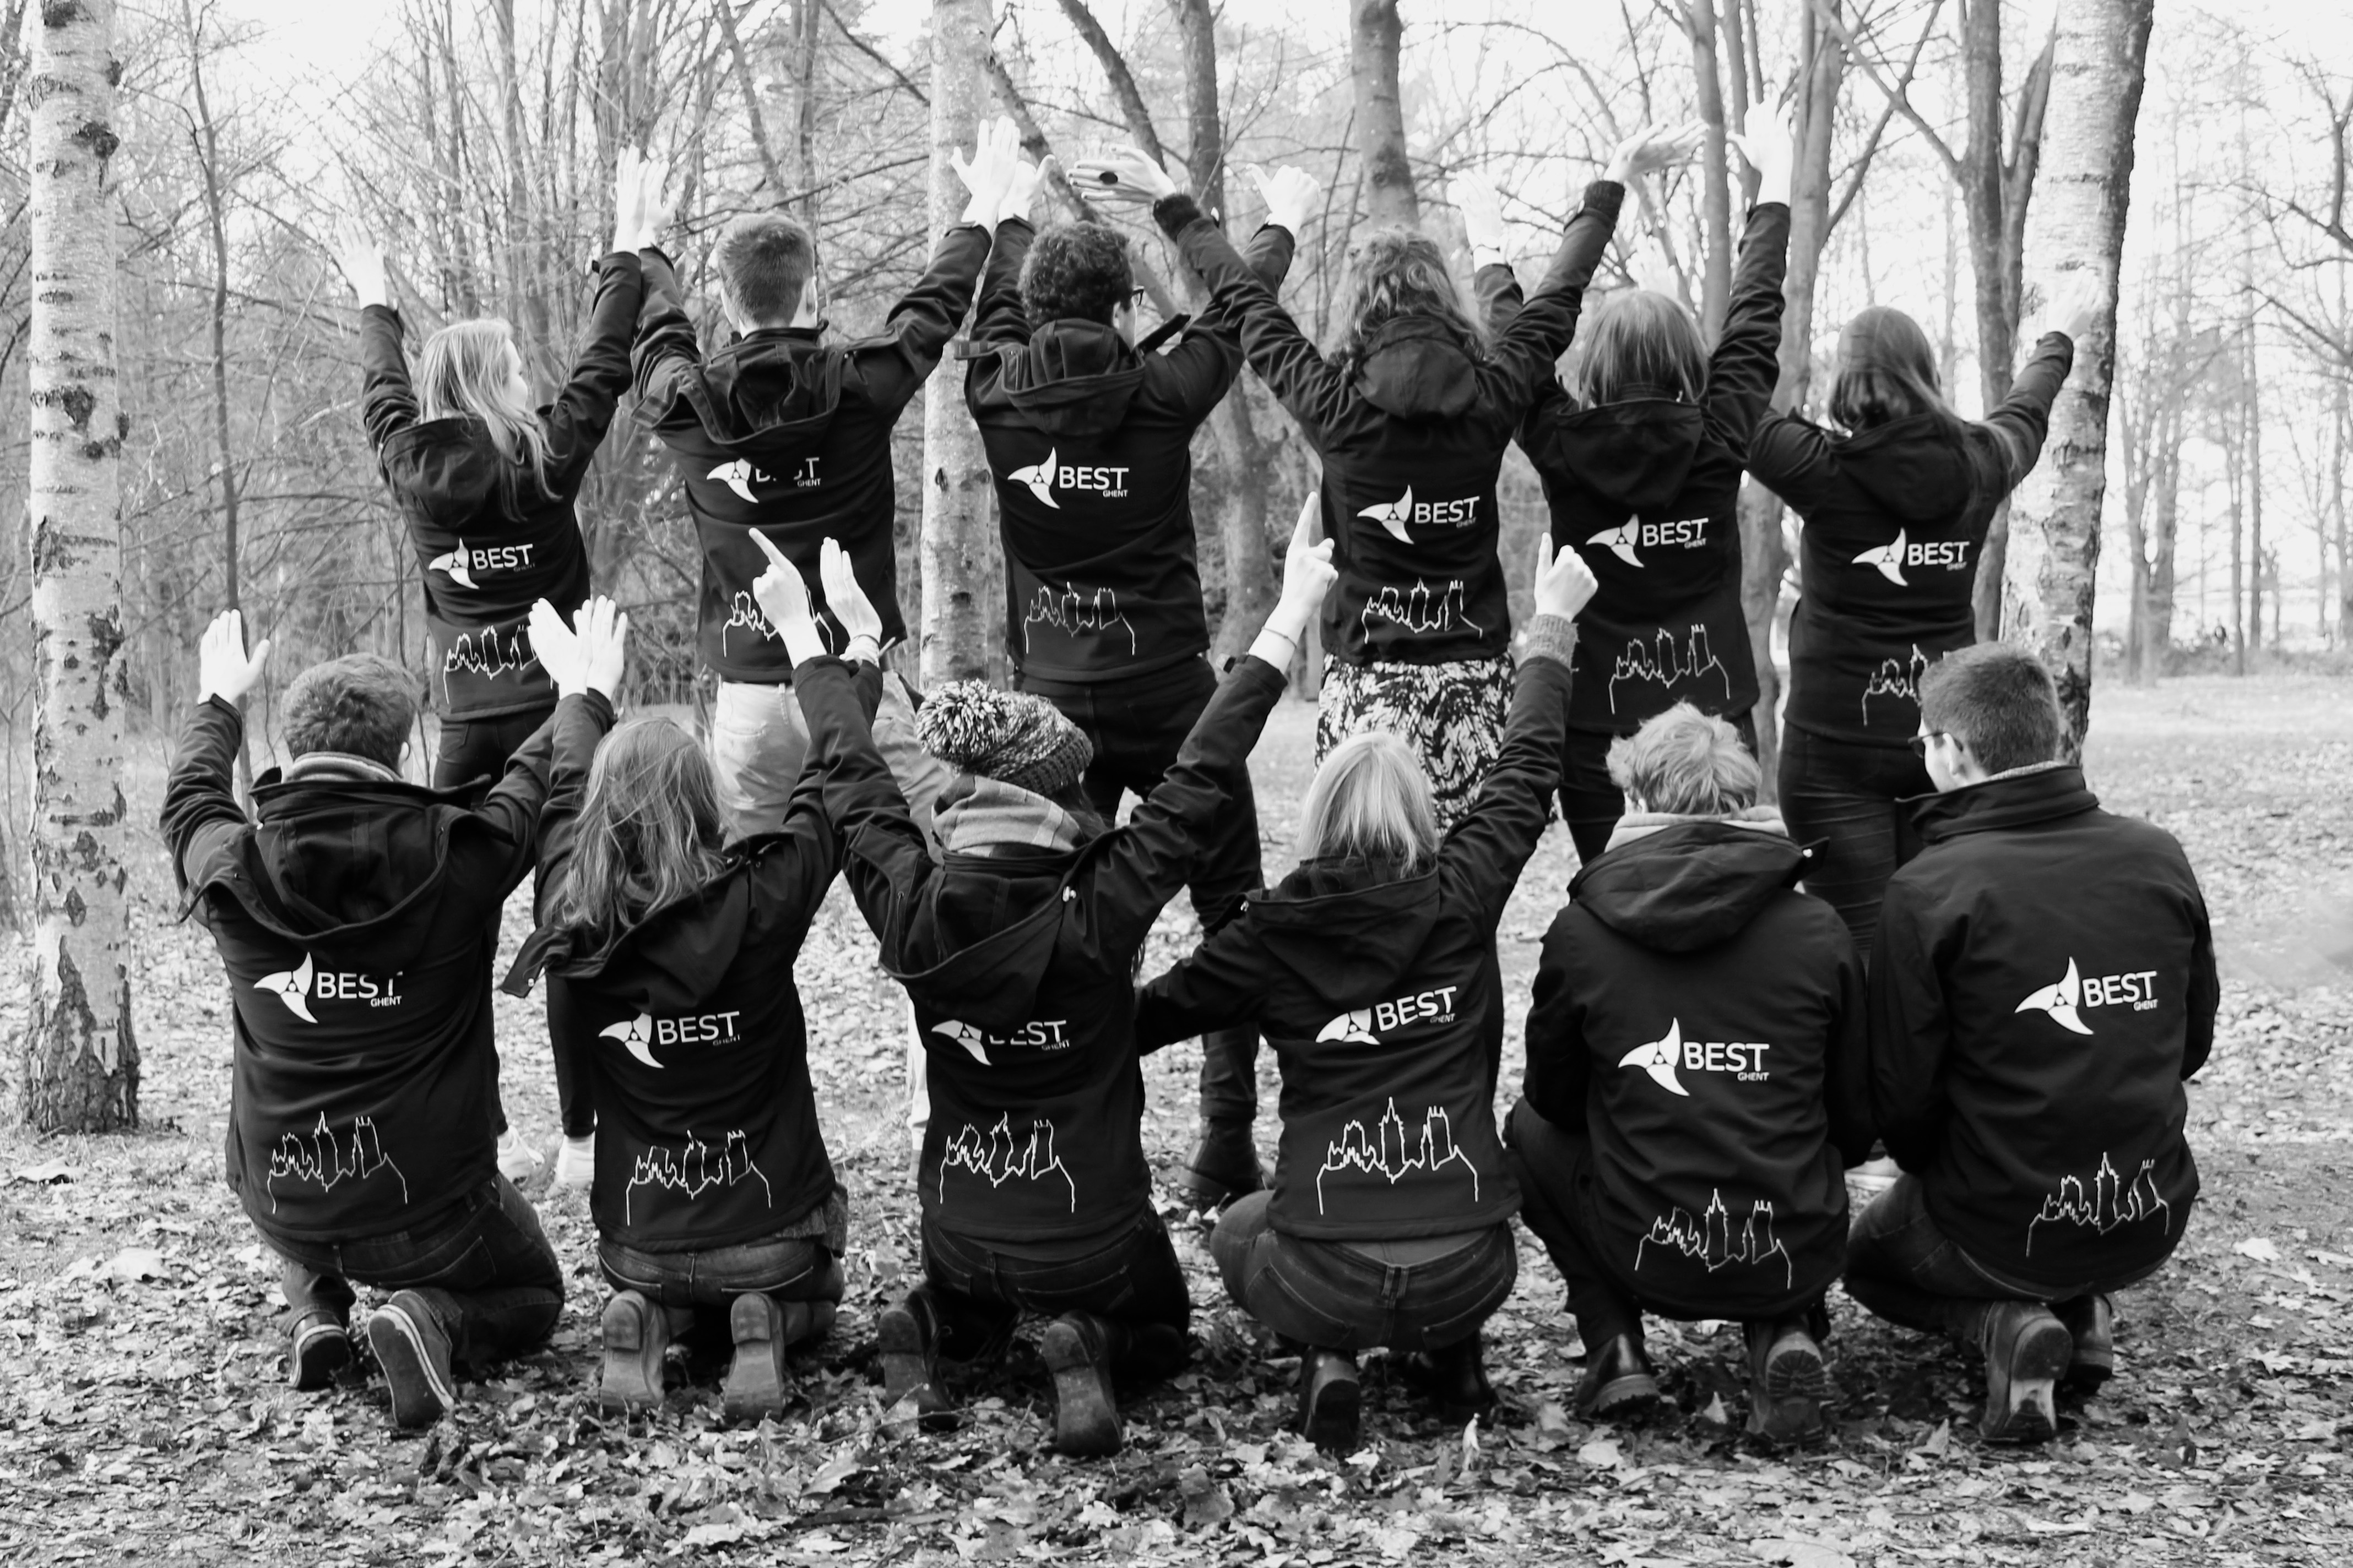
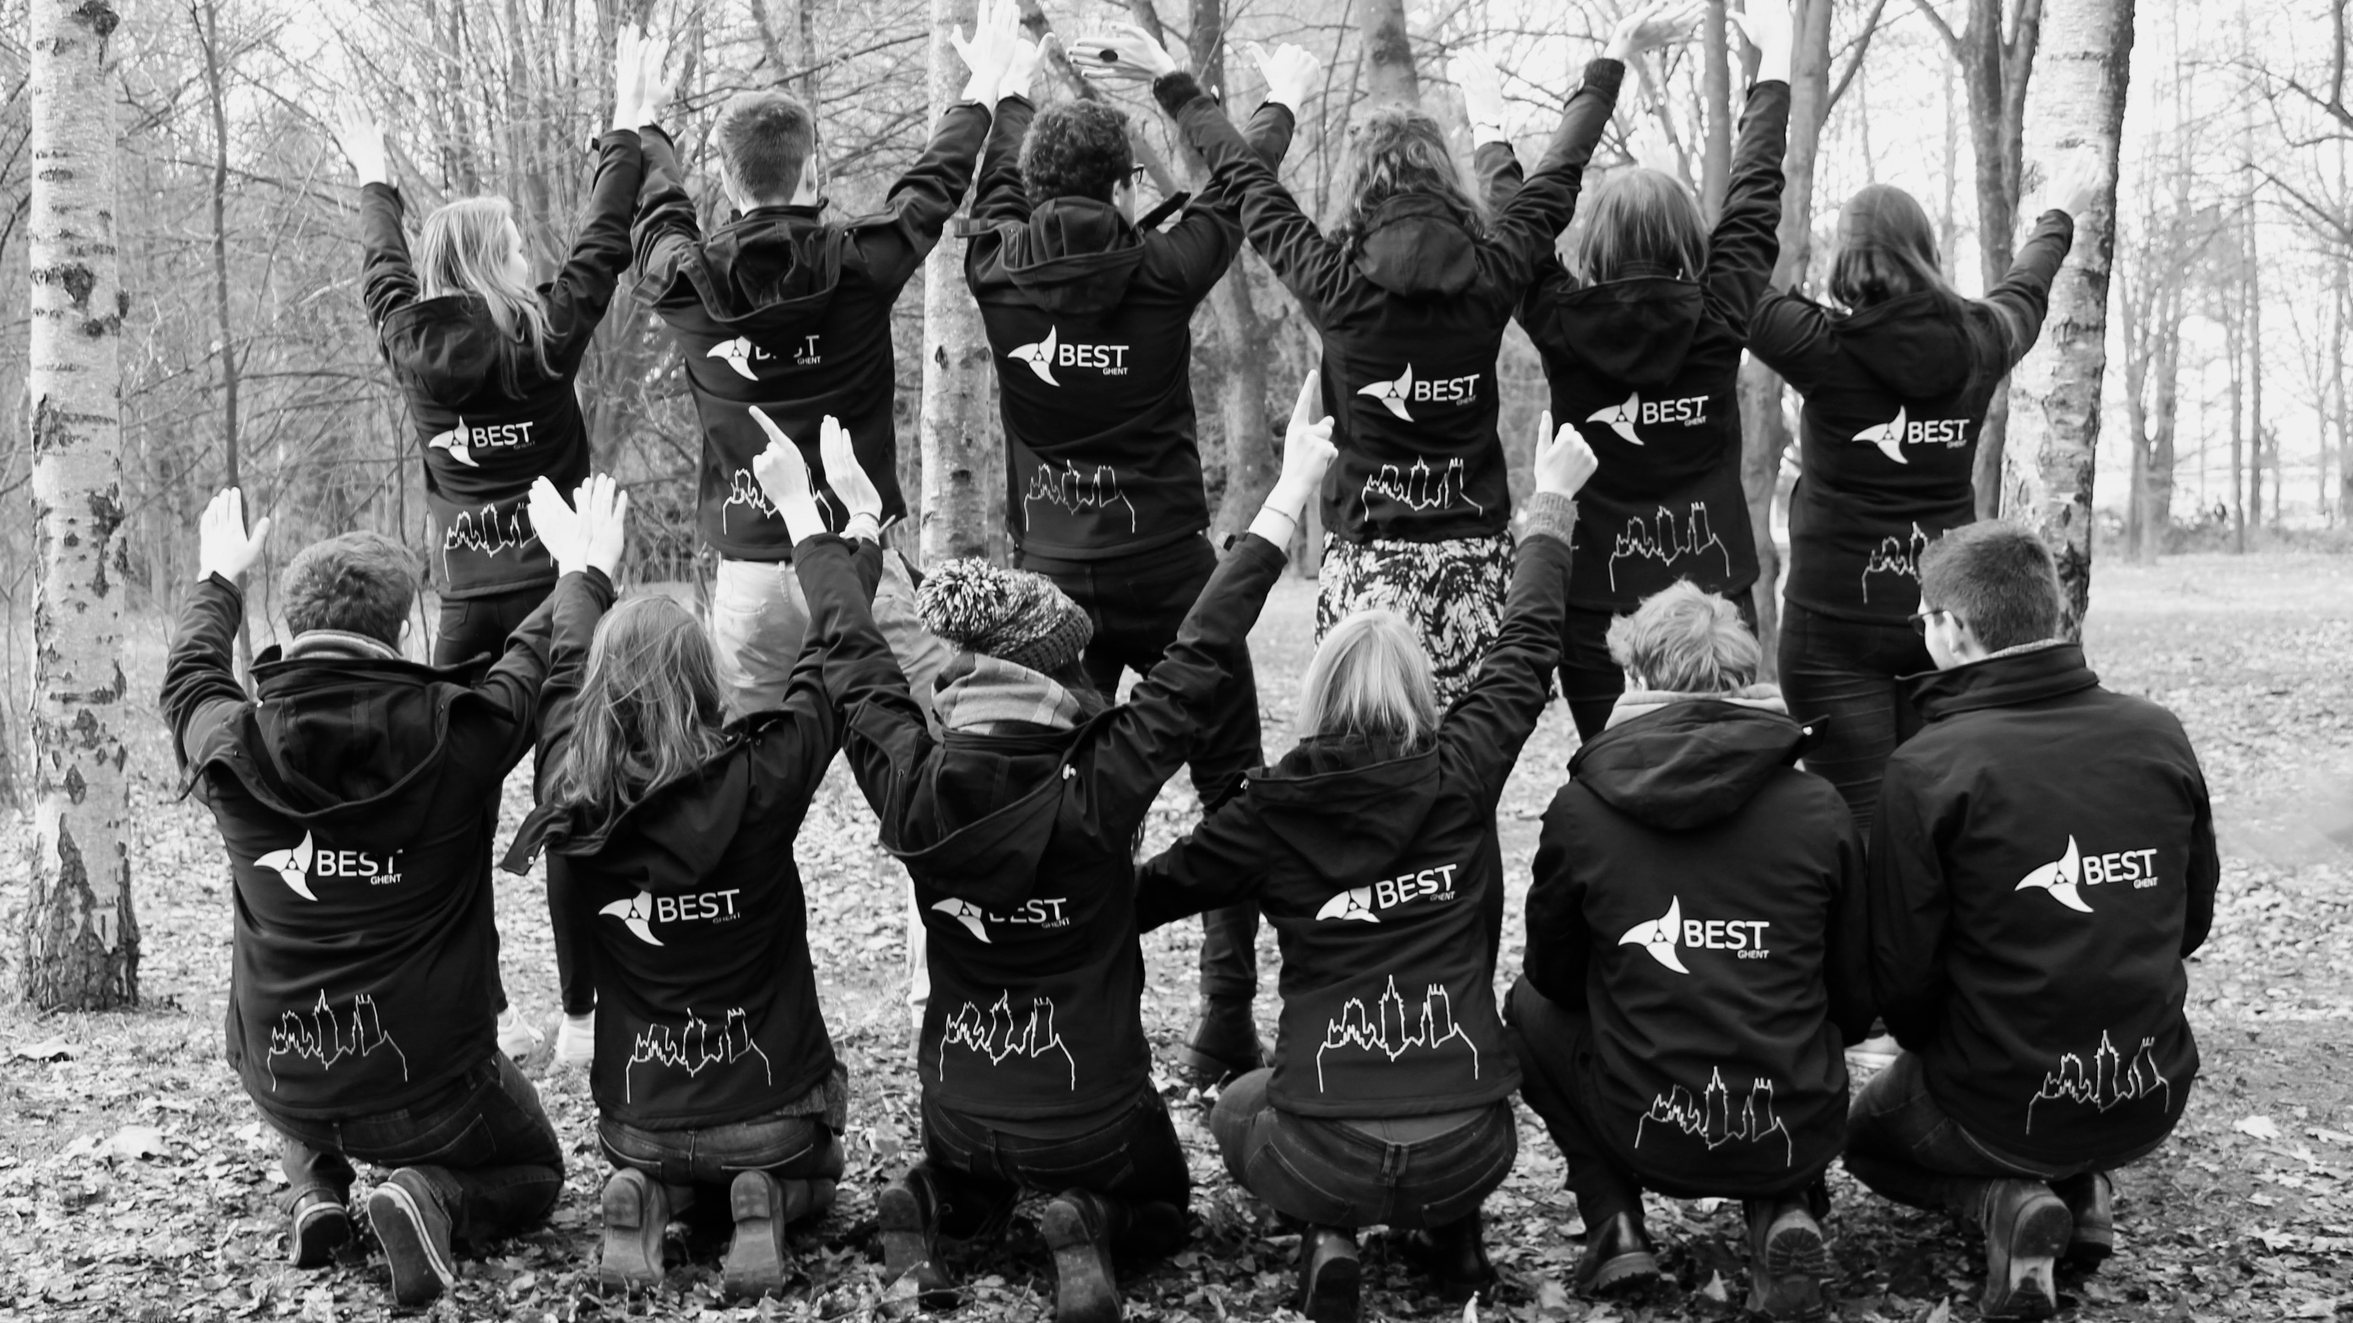
Updated about picture and larger polaroids

diff --git a/src/static/stylesheets/app.css b/src/static/stylesheets/app.css
@@ -8410,9 +8410,9 @@ button.close {
 
 div.polaroids {
   padding-top: 40px;
-  width: 90%;
-  margin-left: 5%;
-  margin-right: 5%;
+  width: 100%;
+  margin-left: 0%;
+  margin-right: 0%;
 }
 
 @media only screen and (max-width: 768px) {
@@ -8431,7 +8431,7 @@ div.polaroids a {
   background: #fff;
   display: inline;
   float: left;
-  margin: 0 0 27px 30px;
+  margin: 0 0 0 0;
   width: auto;
   padding: 10px 10px 15px;
   text-align: center;
@@ -8785,7 +8785,7 @@ section.hero.hero-courses {
 }
 
 section.hero.hero-courses .overlay {
-  background-color: rgba(251, 186, 80, 0.7);
+  background-color: rgba(251, 186, 80, 0.6);
 }
 
 section.hero.hero-ebecmiddelbaar {
@@ -8793,7 +8793,7 @@ section.hero.hero-ebecmiddelbaar {
 }
 
 section.hero.hero-ebecmiddelbaar .overlay {
-  background-color: rgba(145, 199, 55, 0.7);
+  background-color: rgba(145, 199, 55, 0.6);
 }
 
 section.hero.hero-ebecuniversity {
@@ -8801,7 +8801,7 @@ section.hero.hero-ebecuniversity {
 }
 
 section.hero.hero-ebecuniversity .overlay {
-  background-color: rgba(145, 199, 55, 0.7);
+  background-color: rgba(145, 199, 55, 0.6);
 }
 
 section.hero.hero-partners {
